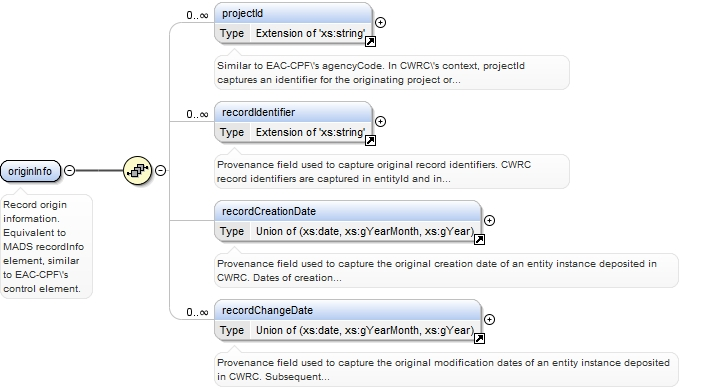
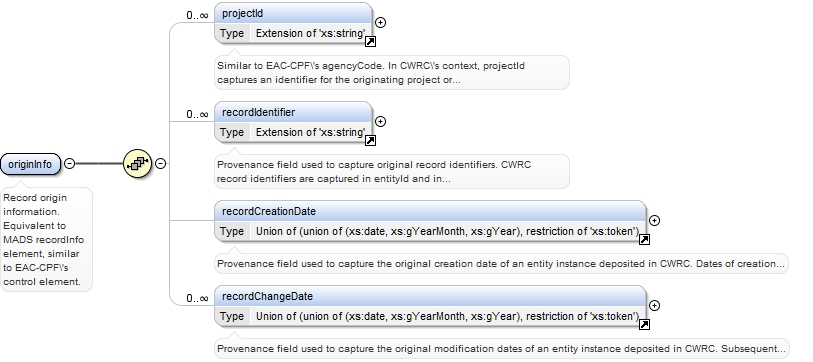
Entity schema and documentation changes [MRB]

Changed region(s): [[0.2094, 0.0, 0.9573, 1.0], [0.0, 0.395, 0.2393, 0.7901]]

diff --git a/schema/documentation/entities/index.html b/schema/documentation/entities/index.html
@@ -2315,7 +2315,7 @@
                            <div class="floatRight"><input id="button_diagram_personRecordInfo-element_recordInfo" type="image" src="img/btM.gif" value="-" onclick="switchState('diagram_personRecordInfo-element_recordInfo');" class="control" /></div>
                         </td>
                         <td class="diagram">
-                           <div id="diagram_personRecordInfo-element_recordInfo" style="display:block"><img alt="Diagram" border="0" src="img/entities_xsd_Element_recordInfo.jpeg" usemap="#entities_xsd_Element_recordInfo" /><map name="entities_xsd_Element_recordInfo" id="entities_xsd_Element_recordInfo">
+                           <div id="diagram_personRecordInfo-element_recordInfo" style="display:block"><img alt="Diagram" border="0" src="img/entities_xsd_Element_recordInfo_3.jpeg" usemap="#entities_xsd_Element_recordInfo_3" /><map name="entities_xsd_Element_recordInfo_3" id="entities_xsd_Element_recordInfo_3">
                                  <area alt="index.tmp#id" href="index.html#id" coords="163,41,240,66" />
                                  <area alt="index.tmp#personTypes" href="index.html#personTypes" coords="220,83,315,108" />
                                  <area alt="index.tmp#originInfo" href="index.html#originInfo" coords="220,163,295,188" />
@@ -2758,8 +2758,8 @@
                            <div id="diagram_originInfo" style="display:block"><img alt="Diagram" border="0" src="img/entities_xsd_Element_originInfo.jpeg" usemap="#entities_xsd_Element_originInfo" /><map name="entities_xsd_Element_originInfo" id="entities_xsd_Element_originInfo">
                                  <area alt="index.tmp#projectId" href="index.html#projectId" coords="214,2,386,46" />
                                  <area alt="index.tmp#recordIdentifier" href="index.html#recordIdentifier" coords="214,101,386,145" />
-                                 <area alt="index.tmp#recordCreationDate" href="index.html#recordCreationDate" coords="214,200,495,244" />
-                                 <area alt="index.tmp#recordChangeDate" href="index.html#recordChangeDate" coords="214,299,495,343" /></map></div>
+                                 <area alt="index.tmp#recordCreationDate" href="index.html#recordCreationDate" coords="214,200,660,244" />
+                                 <area alt="index.tmp#recordChangeDate" href="index.html#recordChangeDate" coords="214,285,660,329" /></map></div>
                         </td>
                      </tr>
                      <tr>
@@ -3213,7 +3213,7 @@
                      </tr>
                      <tr>
                         <td class="firstColumn"><b>Type</b></td>
-                        <td>union of(<b>xs:date</b>, <b>xs:gYearMonth</b>, <b>xs:gYear</b>)
+                        <td>union of(union of(<b>xs:date</b>, <b>xs:gYearMonth</b>, <b>xs:gYear</b>), restriction of <b>xs:token</b>)
                         </td>
                      </tr>
                      <tr>
@@ -3262,7 +3262,16 @@
     </span><span class="tEl">&lt;xs:documentation</span><span class="tEl">&gt;</span><span class="tT" style="white-space:normal">Provenance field used to capture the original creation date of an entity instance deposited in CWRC. Dates of creation for new entities created in CWRC are captured in FOXML. Equivalent to MADS recordCreationDate and EAC-CPF's maintenanceHistory/maintenance/Event/eventType[text()="created"]/eventDateTime . Date format is in the form of YYYY, YYYY-MM, or YYYY-MM-DD format.</span><span class="tEl">&lt;/xs:documentation&gt;</span><span class="tI">
   </span><span class="tEl">&lt;/xs:annotation&gt;</span><span class="tI">
   </span><span class="tEl">&lt;xs:simpleType</span><span class="tEl">&gt;</span><span class="tI">
-    </span><span class="tEl">&lt;xs:union</span><span class="tAN"> memberTypes=</span><span class="tAV">"xs:date xs:gYearMonth xs:gYear"</span><span class="tEl">/&gt;</span><span class="tI">
+    </span><span class="tEl">&lt;xs:union</span><span class="tEl">&gt;</span><span class="tI">
+      </span><span class="tEl">&lt;xs:simpleType</span><span class="tEl">&gt;</span><span class="tI">
+        </span><span class="tEl">&lt;xs:union</span><span class="tAN"> memberTypes=</span><span class="tAV">"xs:date xs:gYearMonth xs:gYear"</span><span class="tEl">/&gt;</span><span class="tI">
+      </span><span class="tEl">&lt;/xs:simpleType&gt;</span><span class="tI">
+      </span><span class="tEl">&lt;xs:simpleType</span><span class="tEl">&gt;</span><span class="tI">
+        </span><span class="tEl">&lt;xs:restriction</span><span class="tAN"> base=</span><span class="tAV">"xs:token"</span><span class="tEl">&gt;</span><span class="tI">
+          </span><span class="tEl">&lt;xs:length</span><span class="tAN"> value=</span><span class="tAV">"0"</span><span class="tEl">/&gt;</span><span class="tI">
+        </span><span class="tEl">&lt;/xs:restriction&gt;</span><span class="tI">
+      </span><span class="tEl">&lt;/xs:simpleType&gt;</span><span class="tI">
+    </span><span class="tEl">&lt;/xs:union&gt;</span><span class="tI">
   </span><span class="tEl">&lt;/xs:simpleType&gt;</span><span class="tI">
 </span><span class="tEl">&lt;/xs:element&gt;</span></pre></td>
                                  </tr>
@@ -3329,7 +3338,7 @@
                      </tr>
                      <tr>
                         <td class="firstColumn"><b>Type</b></td>
-                        <td>union of(<b>xs:date</b>, <b>xs:gYearMonth</b>, <b>xs:gYear</b>)
+                        <td>union of(union of(<b>xs:date</b>, <b>xs:gYearMonth</b>, <b>xs:gYear</b>), restriction of <b>xs:token</b>)
                         </td>
                      </tr>
                      <tr>
@@ -3378,7 +3387,16 @@
     </span><span class="tEl">&lt;xs:documentation</span><span class="tEl">&gt;</span><span class="tT" style="white-space:normal">Provenance field used to capture the original modification dates of an entity instance deposited in CWRC. Subsequent dates of modification in CWRC are captured in FOXML. Equivalent to MADS recordChangeDate and EAC-CPF's maintenanceHistory/maintenance/Event/eventType/eventDateTime . Date format is in the form of YYYY, YYYY-MM, or YYYY-MM-DD format.</span><span class="tEl">&lt;/xs:documentation&gt;</span><span class="tI">
   </span><span class="tEl">&lt;/xs:annotation&gt;</span><span class="tI">
   </span><span class="tEl">&lt;xs:simpleType</span><span class="tEl">&gt;</span><span class="tI">
-    </span><span class="tEl">&lt;xs:union</span><span class="tAN"> memberTypes=</span><span class="tAV">"xs:date xs:gYearMonth xs:gYear"</span><span class="tEl">/&gt;</span><span class="tI">
+    </span><span class="tEl">&lt;xs:union</span><span class="tEl">&gt;</span><span class="tI">
+      </span><span class="tEl">&lt;xs:simpleType</span><span class="tEl">&gt;</span><span class="tI">
+        </span><span class="tEl">&lt;xs:union</span><span class="tAN"> memberTypes=</span><span class="tAV">"xs:date xs:gYearMonth xs:gYear"</span><span class="tEl">/&gt;</span><span class="tI">
+      </span><span class="tEl">&lt;/xs:simpleType&gt;</span><span class="tI">
+      </span><span class="tEl">&lt;xs:simpleType</span><span class="tEl">&gt;</span><span class="tI">
+        </span><span class="tEl">&lt;xs:restriction</span><span class="tAN"> base=</span><span class="tAV">"xs:token"</span><span class="tEl">&gt;</span><span class="tI">
+          </span><span class="tEl">&lt;xs:length</span><span class="tAN"> value=</span><span class="tAV">"0"</span><span class="tEl">/&gt;</span><span class="tI">
+        </span><span class="tEl">&lt;/xs:restriction&gt;</span><span class="tI">
+      </span><span class="tEl">&lt;/xs:simpleType&gt;</span><span class="tI">
+    </span><span class="tEl">&lt;/xs:union&gt;</span><span class="tI">
   </span><span class="tEl">&lt;/xs:simpleType&gt;</span><span class="tI">
 </span><span class="tEl">&lt;/xs:element&gt;</span></pre></td>
                                  </tr>
@@ -10219,7 +10237,7 @@
                            <div class="floatRight"><input id="button_diagram_orgRecordInfo-element_recordInfo" type="image" src="img/btM.gif" value="-" onclick="switchState('diagram_orgRecordInfo-element_recordInfo');" class="control" /></div>
                         </td>
                         <td class="diagram">
-                           <div id="diagram_orgRecordInfo-element_recordInfo" style="display:block"><img alt="Diagram" border="0" src="img/entities_xsd_Element_recordInfo_3.jpeg" usemap="#entities_xsd_Element_recordInfo_3" /><map name="entities_xsd_Element_recordInfo_3" id="entities_xsd_Element_recordInfo_3">
+                           <div id="diagram_orgRecordInfo-element_recordInfo" style="display:block"><img alt="Diagram" border="0" src="img/entities_xsd_Element_recordInfo.jpeg" usemap="#entities_xsd_Element_recordInfo" /><map name="entities_xsd_Element_recordInfo" id="entities_xsd_Element_recordInfo">
                                  <area alt="index.tmp#id" href="index.html#id" coords="163,41,240,66" />
                                  <area alt="index.tmp#originInfo" href="index.html#originInfo" coords="220,83,295,108" />
                                  <area alt="index.tmp#entityId" href="index.html#entityId" coords="220,177,411,221" />
@@ -10377,7 +10395,7 @@
                            <div class="floatRight"><input id="button_diagram_orgDescription-element_description" type="image" src="img/btM.gif" value="-" onclick="switchState('diagram_orgDescription-element_description');" class="control" /></div>
                         </td>
                         <td class="diagram">
-                           <div id="diagram_orgDescription-element_description" style="display:block"><img alt="Diagram" border="0" src="img/entities_xsd_Element_description_1.jpeg" usemap="#entities_xsd_Element_description_1" /><map name="entities_xsd_Element_description_1" id="entities_xsd_Element_description_1">
+                           <div id="diagram_orgDescription-element_description" style="display:block"><img alt="Diagram" border="0" src="img/entities_xsd_Element_description.jpeg" usemap="#entities_xsd_Element_description" /><map name="entities_xsd_Element_description" id="entities_xsd_Element_description">
                                  <area alt="index.tmp#id" href="index.html#id" coords="166,41,243,66" />
                                  <area alt="index.tmp#orgTypes" href="index.html#orgTypes" coords="223,83,300,108" />
                                  <area alt="index.tmp#existDates" href="index.html#existDates" coords="223,163,305,188" />
@@ -11165,7 +11183,7 @@
                            <div class="floatRight"><input id="button_diagram_placeRecordInfo-element_recordInfo" type="image" src="img/btM.gif" value="-" onclick="switchState('diagram_placeRecordInfo-element_recordInfo');" class="control" /></div>
                         </td>
                         <td class="diagram">
-                           <div id="diagram_placeRecordInfo-element_recordInfo" style="display:block"><img alt="Diagram" border="0" src="img/entities_xsd_Element_recordInfo_2.jpeg" usemap="#entities_xsd_Element_recordInfo_2" /><map name="entities_xsd_Element_recordInfo_2" id="entities_xsd_Element_recordInfo_2">
+                           <div id="diagram_placeRecordInfo-element_recordInfo" style="display:block"><img alt="Diagram" border="0" src="img/entities_xsd_Element_recordInfo_1.jpeg" usemap="#entities_xsd_Element_recordInfo_1" /><map name="entities_xsd_Element_recordInfo_1" id="entities_xsd_Element_recordInfo_1">
                                  <area alt="index.tmp#id" href="index.html#id" coords="163,41,240,66" />
                                  <area alt="index.tmp#originInfo" href="index.html#originInfo" coords="220,83,295,108" />
                                  <area alt="index.tmp#entityId" href="index.html#entityId" coords="220,177,411,221" />
@@ -11323,7 +11341,7 @@
                            <div class="floatRight"><input id="button_diagram_placeDescription-element_description" type="image" src="img/btM.gif" value="-" onclick="switchState('diagram_placeDescription-element_description');" class="control" /></div>
                         </td>
                         <td class="diagram">
-                           <div id="diagram_placeDescription-element_description" style="display:block"><img alt="Diagram" border="0" src="img/entities_xsd_Element_description.jpeg" usemap="#entities_xsd_Element_description" /><map name="entities_xsd_Element_description" id="entities_xsd_Element_description">
+                           <div id="diagram_placeDescription-element_description" style="display:block"><img alt="Diagram" border="0" src="img/entities_xsd_Element_description_1.jpeg" usemap="#entities_xsd_Element_description_1" /><map name="entities_xsd_Element_description_1" id="entities_xsd_Element_description_1">
                                  <area alt="index.tmp#id" href="index.html#id" coords="166,41,243,66" />
                                  <area alt="index.tmp#descriptiveNotes" href="index.html#descriptiveNotes" coords="223,83,335,108" />
                                  <area alt="index.tmp#existDates" href="index.html#existDates" coords="223,118,305,143" />
@@ -12667,7 +12685,7 @@
                            <div class="floatRight"><input id="button_diagram_recordInfo-element_recordInfo" type="image" src="img/btM.gif" value="-" onclick="switchState('diagram_recordInfo-element_recordInfo');" class="control" /></div>
                         </td>
                         <td class="diagram">
-                           <div id="diagram_recordInfo-element_recordInfo" style="display:block"><img alt="Diagram" border="0" src="img/entities_xsd_Element_recordInfo_1.jpeg" usemap="#entities_xsd_Element_recordInfo_1" /><map name="entities_xsd_Element_recordInfo_1" id="entities_xsd_Element_recordInfo_1">
+                           <div id="diagram_recordInfo-element_recordInfo" style="display:block"><img alt="Diagram" border="0" src="img/entities_xsd_Element_recordInfo_2.jpeg" usemap="#entities_xsd_Element_recordInfo_2" /><map name="entities_xsd_Element_recordInfo_2" id="entities_xsd_Element_recordInfo_2">
                                  <area alt="index.tmp#id" href="index.html#id" coords="163,41,240,66" />
                                  <area alt="index.tmp#originInfo" href="index.html#originInfo" coords="220,83,295,108" />
                                  <area alt="index.tmp#entityId" href="index.html#entityId" coords="220,177,411,221" />
